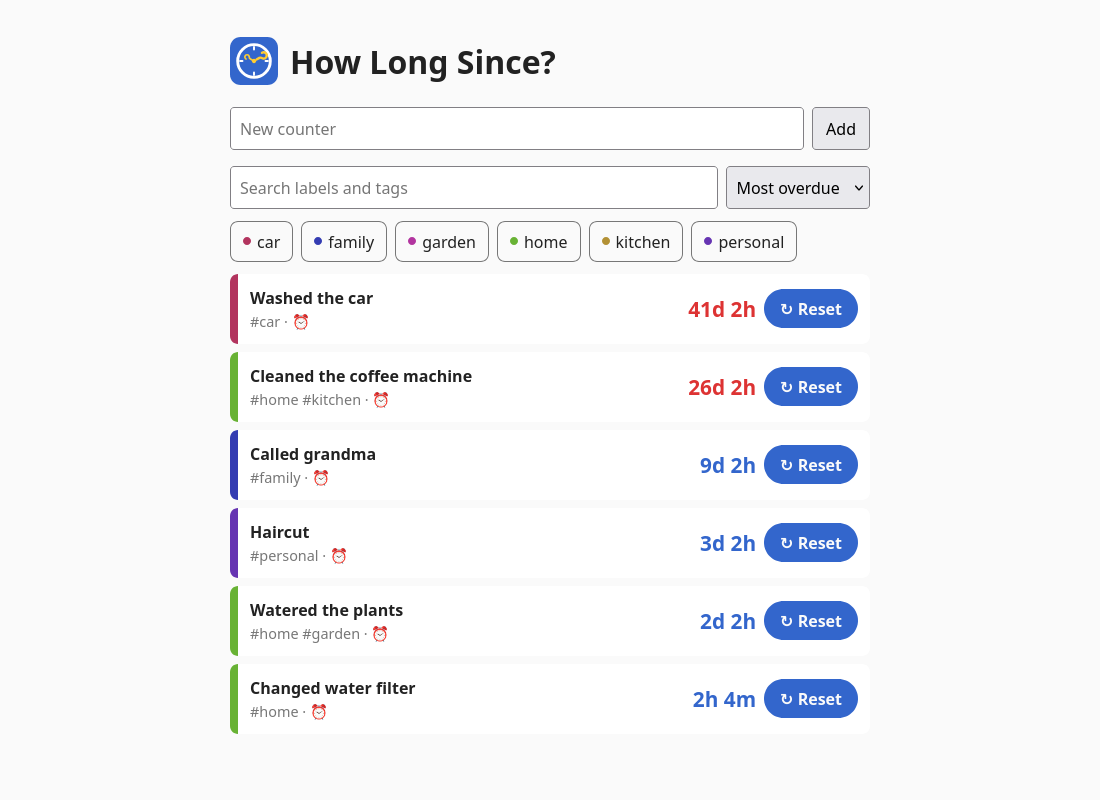
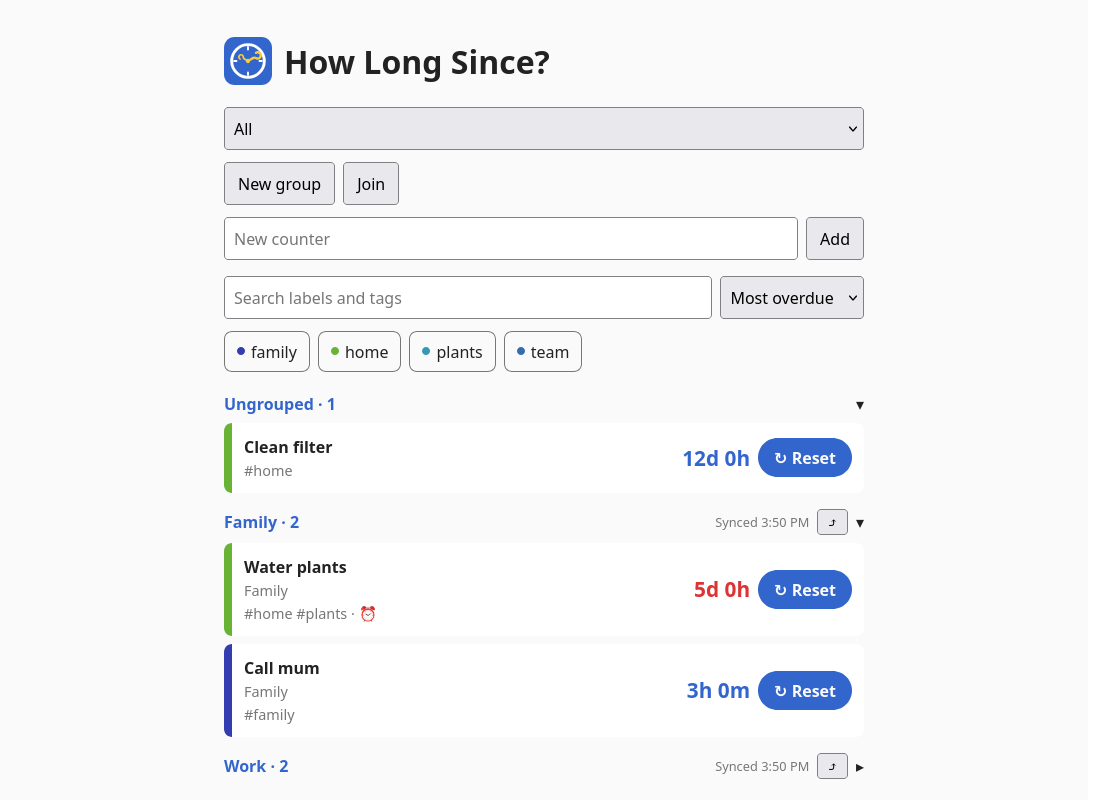
Web app: dark theme and debug switches, edit form fits narrow screens; READMEs and screenshot cover the full web app; phase 5 done

diff --git a/server/index.html b/server/index.html
@@ -9,7 +9,9 @@
 <meta name="theme-color" content="#3366cc">
 <style>
   :root { color-scheme: light dark; --bg:#fafafa; --fg:#222; --card:#fff; --muted:#777; --accent:#3366cc; --tag-l:45%; }
-  @media (prefers-color-scheme: dark) { :root { --bg:#121212; --fg:#eee; --card:#1e1e1e; --muted:#999; --accent:#8ab4f8; --tag-l:70%; } }
+  @media (prefers-color-scheme: dark) { :root:not([data-theme=light]) { --bg:#121212; --fg:#eee; --card:#1e1e1e; --muted:#999; --accent:#8ab4f8; --tag-l:70%; } }
+  :root[data-theme=dark] { color-scheme: dark; --bg:#121212; --fg:#eee; --card:#1e1e1e; --muted:#999; --accent:#8ab4f8; --tag-l:70%; }
+  :root[data-theme=light] { color-scheme: light; }
   body { font-family: system-ui, sans-serif; background: var(--bg); color: var(--fg); max-width: 640px; margin: 0 auto; padding: 16px; }
   form { display: flex; gap: 8px; margin-bottom: 16px; }
   input { flex: 1; padding: 8px; font-size: 1rem; }
@@ -45,6 +47,9 @@
   #err { color: #d33; }
   [data-edit] { display: grid; gap: 8px; margin: 12px 0; }
   [data-edit] label { display: grid; gap: 4px; font-size: .9rem; }
+  [data-edit] label > input, [data-edit] label > select { width: 100%; box-sizing: border-box; }
+  [data-edit] .row > * { min-width: 0; }
+  [data-edit] .row { flex-wrap: wrap; }
   .row { display: flex; gap: 8px; }
   select { padding: 8px; font-size: 1rem; }
   .overdue .since { color: #d33; }
@@ -89,7 +94,9 @@
   <div class="row"><button id="doreplace" data-i18n="replace">Replace</button><button id="dokeep" data-i18n="keep_both">Keep both</button><button id="nogo" data-i18n="cancel">Cancel</button></div>
 </dialog>
 <footer><button id="export" data-i18n="export_data">Export data</button> <button id="import" data-i18n="import_data">Import data</button> <input type="file" id="file" accept=".json,application/json" hidden>
-  <br><br><select id="lang" aria-label="Language"><option value="">Auto</option><option value="en">English</option><option value="it">Italiano</option></select></footer>
+  <p><label><input type="checkbox" id="dark"> <span data-i18n="dark_theme">Dark theme</span></label>
+    <label><input type="checkbox" id="debug"> <span data-i18n="debug_mode">Debug mode</span></label><br>
+    <span class="muted" data-i18n="debug_hint">Allow "notify after" in minutes</span></p><select id="lang" aria-label="Language"><option value="">Auto</option><option value="en">English</option><option value="it">Italiano</option></select></footer>
 <script>
 const $ = s => document.querySelector(s);
 const esc = s => s.replace(/[&<>"]/g, c => `&#${c.charCodeAt(0)};`);
@@ -107,7 +114,7 @@ const T = {
     reset_label: 'Reset %s', pick_past: 'Pick a time in the past', create: 'created', manual: 'manual', nfc: 'via NFC', d: 'd',
     open_app: 'Open in app', forget: 'Forget', paste_link: 'Paste a group link', bad_link: 'That isn\'t a group link',
         no_data: 'Nothing found for this link on this server', decrypt_failed: 'Can\'t decrypt: wrong key?', needs_https: 'This page needs https to decrypt (or localhost).', busy: 'Busy, try again', all_groups: 'All', ungrouped: 'Ungrouped', synced: 'Synced %s', group: 'Group', move_title: 'Move out of a synced group?', move_text: 'The counter will be removed for everyone else in the group it leaves.', new_group: 'New group', group_name: 'Group name', rename: 'Rename', join: 'Join', join_question: 'Join «%s»?',
-    already_joined: 'Already joined as «%s»', other_server: 'That link is for %s. Open it on that server\'s page.', token: 'Token', share: 'Share', copy_link: 'Copy link', link_copied: 'Copied', close: 'Close', export_data: 'Export data', import_data: 'Import data', replace: 'Replace', keep_both: 'Keep both', cancel: 'Cancel', imported_name: 'Imported', cant_read: 'Can\'t read file: %s', done_imported: 'Imported %s counters',
+    already_joined: 'Already joined as «%s»', other_server: 'That link is for %s. Open it on that server\'s page.', token: 'Token', share: 'Share', copy_link: 'Copy link', link_copied: 'Copied', close: 'Close', dark_theme: 'Dark theme', debug_mode: 'Debug mode', debug_hint: 'Allow "notify after" in minutes', export_data: 'Export data', import_data: 'Import data', replace: 'Replace', keep_both: 'Keep both', cancel: 'Cancel', imported_name: 'Imported', cant_read: 'Can\'t read file: %s', done_imported: 'Imported %s counters',
     import_q: 'The file has %s counters. Replace: groups with the same name are deleted and replaced by the file\'s. Keep both: they are imported as new groups, renamed if a name is taken. Replacing can\'t be undone.',
     share_warning: 'Anyone with this link can read and change this group, and access can\'t be taken back. To cut someone off, make a new group and move the counters.',
     forget_backup: 'Copy this link first: it is the only backup of the key. OK forgets the group in this browser (the data stays on the server), Cancel keeps it.' },
@@ -122,7 +129,7 @@ const T = {
     reset_label: 'Azzera %s', pick_past: 'Scegli un momento nel passato', create: 'creato', manual: 'manuale', nfc: 'via NFC', d: 'g',
     open_app: 'Apri nell\'app', forget: 'Dimentica', paste_link: 'Incolla un link di gruppo', bad_link: 'Questo non è un link di gruppo',
         no_data: 'Niente trovato per questo link su questo server', decrypt_failed: 'Impossibile decifrare: chiave sbagliata?', needs_https: 'Questa pagina richiede https per decifrare (o localhost).', busy: 'Occupato, riprova', all_groups: 'Tutti', ungrouped: 'Senza gruppo', synced: 'Sincronizzato alle %s', group: 'Gruppo', move_title: 'Spostare da un gruppo sincronizzato?', move_text: 'Il contatore verrà rimosso per tutti gli altri nel gruppo che lascia.', new_group: 'Nuovo gruppo', group_name: 'Nome del gruppo', rename: 'Rinomina', join: 'Unisciti', join_question: 'Unirti a «%s»?',
-    already_joined: 'Già unito come «%s»', other_server: 'Quel link è per %s. Aprilo sulla pagina di quel server.', token: 'Token', share: 'Condividi', copy_link: 'Copia link', link_copied: 'Copiato', close: 'Chiudi', export_data: 'Esporta dati', import_data: 'Importa dati', replace: 'Sostituisci', keep_both: 'Tieni entrambi', cancel: 'Annulla', imported_name: 'Importati', cant_read: 'Impossibile leggere il file: %s', done_imported: 'Importati %s contatori',
+    already_joined: 'Già unito come «%s»', other_server: 'Quel link è per %s. Aprilo sulla pagina di quel server.', token: 'Token', share: 'Condividi', copy_link: 'Copia link', link_copied: 'Copiato', close: 'Chiudi', dark_theme: 'Tema scuro', debug_mode: 'Modalità debug', debug_hint: 'Consenti "avvisa dopo" in minuti', export_data: 'Esporta dati', import_data: 'Importa dati', replace: 'Sostituisci', keep_both: 'Tieni entrambi', cancel: 'Annulla', imported_name: 'Importati', cant_read: 'Impossibile leggere il file: %s', done_imported: 'Importati %s contatori',
     import_q: 'Il file contiene %s contatori. Sostituisci: i gruppi con lo stesso nome vengono eliminati e sostituiti da quelli del file. Tieni entrambi: vengono importati come nuovi gruppi, rinominati se un nome è già usato. Sostituire non si può annullare.',
     share_warning: 'Chiunque abbia questo link può leggere e modificare questo gruppo, e l\'accesso non si può revocare. Per escludere qualcuno, crea un nuovo gruppo e sposta i contatori.',
     forget_backup: 'Copia prima questo link: è l\'unico backup della chiave. OK dimentica il gruppo in questo browser (i dati restano sul server), Annulla lo tiene.' },
@@ -145,6 +152,9 @@ const hex = u => [...u].map(b => b.toString(16).padStart(2, '0')).join('');
 const validSecret = s => { try { return b64u(s).length === 32; } catch { return false; } };
 
 // <core> Pure logic (no page, no network): tests load this part, see web.test.mjs.
+const UNITS = [['minutes', 6e4], ['hours', 36e5], ['days', 864e5], ['weeks', 6048e5]];
+/** Like the phone: minutes only in debug mode, or if this counter already uses them (else it couldn't be shown). */
+const unitsFor = (ms, debug) => debug || (ms ?? 0) % 36e5 !== 0 ? UNITS : UNITS.slice(1);
 const tagList = s => [...new Set(s.split(',').map(t => t.trim().toLowerCase()).filter(Boolean))]; // same as the app
 const uniqueName = (name, taken) => { let n = name, i = 1; while (taken.some(x => x.toLowerCase() === n.toLowerCase())) n = `${name} (${++i})`; return n; };
 
@@ -403,19 +413,18 @@ function since(ms) {
 
 const event = (counterId, source, at = Date.now()) => ({ id: crypto.randomUUID(), counterId, at, source, deleted: false });
 
-const UNITS = [['minutes', 6e4], ['hours', 36e5], ['days', 864e5], ['weeks', 6048e5]];
 
 function editForm(c, avg, k) {
-  const ms = c.notifyAfterMs;
+  const ms = c.notifyAfterMs, units = unitsFor(ms, debug);
   // Largest unit that divides the stored value evenly, like the app.
-  const [unit, size] = ms ? UNITS.filter(([, n]) => ms % n === 0).pop() ?? UNITS[0] : UNITS[2];
+  const [unit, size] = ms ? units.filter(([, n]) => ms % n === 0).pop() ?? units[0] : UNITS[2];
   return `<form data-edit="${c.id}">
     <label>${t('label')} <input name="label" value="${esc(c.label)}" required></label>
     <label>${t('tags')} <input name="tags" value="${esc(tagList(c.tags).join(', '))}" placeholder="${t('comma')}"></label>
     ${groups.length ? `<label>${t('group')} <select name="group">${[['', t('ungrouped')], ...[...groups].sort(byName).map(g => [g.secret, g.name || '…'])]
       .map(([v, n]) => `<option value="${esc(v)}" ${v === k ? 'selected' : ''}>${esc(n)}</option>`).join('')}</select></label>` : ''}
     <label>${t('notify_after')} <span class="row"><input name="amount" type="number" min="1" value="${ms ? ms / size : ''}" placeholder="${t('never')}">
-      <select name="unit">${UNITS.map(([u]) => `<option value="${u}" ${u === unit ? 'selected' : ''}>${t(u)}</option>`).join('')}</select>
+      <select name="unit">${units.map(([u]) => `<option value="${u}" ${u === unit ? 'selected' : ''}>${t(u)}</option>`).join('')}</select>
       ${avg ? `<button type="button" data-avg="${avg}">${t('use_average', since(Date.now() - avg))}</button>` : ''}</span></label>
     <label>${t('reset_note')} <span class="row"><input name="note" placeholder="${t('note')}"><input type="datetime-local" name="at"><button type="button" data-reset-at="${c.id}">${t('reset')}</button></span></label>
     ${c.nfcTagId ? `<p class="muted">${t('nfc_paired')} <button type="button" data-unpair="${c.id}">${t('unpair')}</button></p>` : ''}
@@ -439,6 +448,7 @@ function chart(ev) {
 // Same hue as the app's tagColor: Java String.hashCode() mod 360.
 const tagHue = t => { let h = 0; for (const ch of t) h = Math.imul(h, 31) + ch.charCodeAt(0) | 0; return (h % 360 + 360) % 360; };
 const dot = t => `<i class="dot" style="background:hsl(${tagHue(t)} 55% var(--tag-l))"></i>`;
+let debug = localStorage.getItem('debug') === '1';
 let filter = null, showArchived = false;
 let folded = new Set(); try { folded = new Set(JSON.parse(localStorage.getItem('folded') || '[]')); } catch {}
 $('#sort').value = localStorage.getItem('sort') || 'due';
@@ -556,7 +566,7 @@ $('#list').onclick = e => {
   }
   if (d.avg) {
     const f = e.target.closest('form').elements, a = Number(d.avg);
-    const [u, n] = a < 1728e5 ? UNITS[1] : UNITS[2]; // hours under 2 days, else days
+    const [u, n] = a < 36e5 && f.unit.querySelector('[value=minutes]') ? UNITS[0] : a < 1728e5 ? UNITS[1] : UNITS[2]; // minutes (debug only) under an hour, hours under 2 days, else days
     f.unit.value = u; f.amount.value = Math.max(1, Math.round(a / n));
   }
   if (d.archive) {
@@ -579,6 +589,17 @@ function showUndo(text, ev, k) {
 $('#q').oninput = render;
 $('#lang').value = saved || '';
 $('#lang').onchange = () => { try { $('#lang').value ? localStorage.setItem('lang', $('#lang').value) : localStorage.removeItem('lang'); } catch {} location.reload(); };
+const dark = matchMedia('(prefers-color-scheme: dark)');
+function applyTheme() { // follows the system until the switch is used
+  const v = localStorage.getItem('theme');
+  v ? document.documentElement.dataset.theme = v : delete document.documentElement.dataset.theme;
+  $('#dark').checked = v ? v === 'dark' : dark.matches;
+}
+dark.addEventListener('change', applyTheme);
+$('#dark').onchange = () => { localStorage.setItem('theme', $('#dark').checked ? 'dark' : 'light'); applyTheme(); };
+$('#debug').checked = debug;
+$('#debug').onchange = () => { debug = $('#debug').checked; localStorage.setItem('debug', debug ? '1' : '0'); render(); };
+applyTheme();
 $('#sort').onchange = () => { localStorage.setItem('sort', $('#sort').value); render(); };
 $('#group').onchange = () => { view = $('#group').value; render(); };
 /** Applies one entry of an import plan: the group's counters are replaced by the file's (moved here from other places if they lived there). */

diff --git a/README-IT.md b/README-IT.md
@@ -81,6 +81,7 @@ app/src/test/.../SinceTest.kt  Test unitari (formattazione, tag, ritardo dei pro
 server/
   main.go          Server di sincronizzazione: archivio di blob cifrati e handler HTTP
   main_test.go     Test dell'archivio dei blob (eseguito durante il docker build)
+  web.test.mjs     Test della logica della web app: node --test server/web.test.mjs
   index.html       Web app, inclusa nel binario del server
   Dockerfile, compose.yml
 logo.svg           Logo (l'icona dell'app e la favicon web derivano da qui)
@@ -104,7 +105,12 @@ L'NFC richiede un telefono vero e tag NDEF scrivibili (per esempio NTAG213/215/2
 
 ![Web app](docs/web.png)
 
-**Web app**: apri il link di condivisione di un gruppo (la chiave è nella parte dopo `#`, che il browser non invia mai) e la pagina lo decifra nel browser; ricorda nel local storage i gruppi aperti in questo browser, con un selettore, "Aggiungi gruppo" e "Dimentica", e un link "Apri nell'app" per il telefono. Richiede https (o localhost) per la crittografia del browser. Contatori: elenco dei contatori con il tempo dall'ultimo azzeramento, ordinati dal più vecchio. Puoi aggiungere, azzerare ed eliminare contatori. Aprendo un contatore vedi il registro degli azzeramenti, il grafico degli intervalli e un modulo per etichetta, tag e promemoria "notify after" (il promemoria scatta sul telefono). Un tag NFC abbinato può essere disabbinato, ma l'abbinamento richiede il telefono. I tempi sulla pagina si aggiornano ogni minuto.
+**Web app**: tutto quello che fa il telefono, tranne ciò che richiede il telefono stesso.
+- **Gruppi**: la pagina mostra ogni gruppo che conosce come sezione comprimibile (più "Senza gruppo", che vive solo nel local storage di questo browser), ognuna con il proprio stato di sincronizzazione. Un filtro mostra Tutti, Senza gruppo o un singolo gruppo. Puoi creare, rinominare, dimenticare e unirti a gruppi, condividerne uno (codice QR, link, copia, il menu di condivisione del browser) e spostare un contatore tra gruppi dal suo modulo di modifica (lasciare un gruppo sincronizzato chiede conferma). La chiave è nella parte del link dopo `#`, che il browser non invia mai; i gruppi aperti vengono ricordati nel local storage di questo browser, e un link "Apri nell'app" ne passa uno al telefono. Richiede https (o localhost) per la crittografia del browser.
+- **Contatori**: aggiungi, azzera (adesso, con una nota o in un momento passato), annulla, archivia ed elimina. Aprendone uno vedi il registro degli azzeramenti, il grafico degli intervalli e un modulo per etichetta, tag, gruppo e promemoria "avvisa dopo" (il promemoria scatta sul telefono). Un tag NFC abbinato può essere disabbinato, ma l'abbinamento richiede il telefono. Ricerca, filtro per tag e ordinamento funzionano dentro ogni sezione. I tempi si aggiornano ogni minuto.
+- **Esporta e importa** usano il file JSON del telefono, quindi un file passa dal telefono al web e viceversa: Sostituisci scambia i gruppi con lo stesso nome con quelli del file, Tieni entrambi li importa come nuovi gruppi.
+- **Impostazioni** nel piè di pagina: un interruttore del tema scuro (segue il sistema finché non lo usi), un interruttore debug che consente i minuti in "avvisa dopo" e la lingua (inglese o italiano, secondo il browser).
+- **Non sul web**: abbinamento NFC, promemoria e notifiche, il widget e i gruppi che stanno su un server diverso da quello della pagina.
 
 **Avvio**
 ```bash

diff --git a/README.md b/README.md
@@ -81,6 +81,7 @@ app/src/test/.../SinceTest.kt  Unit tests (formatting, tags, reminder delay, NFC
 server/
   main.go          Sync server: encrypted blob store and HTTP handlers
   main_test.go     Blob store test (runs during docker build)
+  web.test.mjs     Web app logic tests: node --test server/web.test.mjs
   index.html       Web app, built into the server binary
   Dockerfile, compose.yml
 logo.svg           Logo (the app icon and the web favicon are drawn from it)
@@ -104,7 +105,12 @@ NFC needs a real phone and writable NDEF tags (for example NTAG213/215/216).
 
 ![Web app](docs/web.png)
 
-**Web app**: open a group's share link (the key is in the part after `#`, which the browser never sends) and the page decrypts it in the browser; it remembers the groups you opened in this browser's local storage, with a switcher, "Add group" and "Forget", and an "Open in app" link for the phone. It needs https (or localhost) for the browser's crypto. Counters: list of counters with the time since the last reset, sorted by the oldest reset. You can add, reset and delete counters. Opening a counter shows the reset log, the interval chart, and a form for its label, tags and "notify after" reminder (the reminder itself fires on the phone). A paired NFC tag can be unpaired, but pairing needs the phone. The times on the page update every minute.
+**Web app**: everything the phone does except what needs the phone itself.
+- **Groups**: the page shows every group it knows as a foldable section (plus "Ungrouped", which lives only in this browser's local storage), each with its own sync status. A filter shows All, Ungrouped or one group. You can create, rename, forget and join groups, share one (QR code, link, copy, the browser's share sheet), and move a counter between groups from its edit form (leaving a synced group asks first). The key is in the part of the link after `#`, which the browser never sends; the groups you opened are remembered in this browser's local storage, and an "Open in app" link hands one to the phone. It needs https (or localhost) for the browser's crypto.
+- **Counters**: add, reset (now, with a note, or at a past time), undo, archive and delete. Opening one shows the reset log, the interval chart and a form for its label, tags, group and "notify after" reminder (the reminder itself fires on the phone). A paired NFC tag can be unpaired, but pairing needs the phone. Search, tag filter and sort work inside each section. The times update every minute.
+- **Export and import** use the phone's JSON file, so a file moves between the phone and the web: Replace swaps the groups of the same name for the file's, Keep both imports them as new groups.
+- **Settings** in the footer: a dark theme switch (follows the system until you use it), a debug switch that allows minutes in "notify after", and the language (English or Italian, following the browser).
+- **Not on the web**: NFC pairing, reminders and notifications, the widget, and groups that live on a different server than the page.
 
 **Run it**
 ```bash

diff --git a/PLAN.md b/PLAN.md
@@ -56,7 +56,7 @@ Today the server merges data and the web app reads plaintext. With end-to-end en
 
 ## Phase 5: web app parity
 
-Agreed 2026-11-03. The web app can open and edit a group someone shared, but can't create, share or manage them. Goal: everything the phone does, except what needs the phone. No server change: groups are blobs, so every step is client code in `server/index.html`. Each step ships on its own.
+Agreed 2026-11-03. Done 2026-11-03 (steps 5a to 5f). The web app can open and edit a group someone shared, but can't create, share or manage them. Goal: everything the phone does, except what needs the phone. No server change: groups are blobs, so every step is client code in `server/index.html`. Each step ships on its own.
 
 Decisions: a vendored QR generator (about 20 KB, MIT, pinned version, pasted inline), counters kept only in the browser ("Ungrouped" in `localStorage`, like the phone), and foldable sections for all groups like the phone.
 
